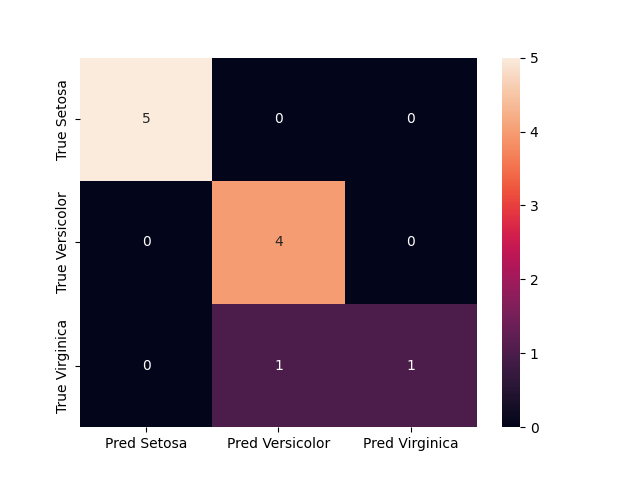
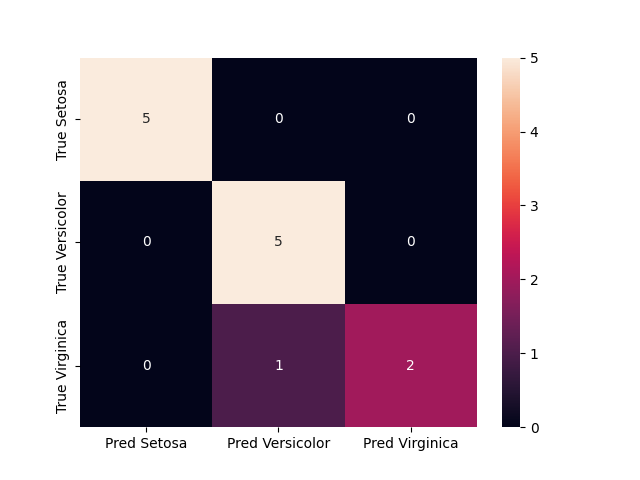
Automated graph published

Changed region(s): [[0.3125, 0.375, 0.75, 0.9062]]

diff --git a/assets/df_recent.md b/assets/df_recent.md
@@ -1,0 +1,7 @@
+| prediction   | label      | datetime             |
+|:-------------|:-----------|:---------------------|
+| Setosa       | Setosa     | 03/13/2024, 10:21:54 |
+| Versicolor   | Versicolor | 03/13/2024, 13:03:00 |
+| Versicolor   | Virginica  | 03/13/2024, 13:20:33 |
+| Virginica    | Virginica  | 03/13/2024, 13:36:55 |
+| Versicolor   | Versicolor | 03/13/2024, 14:26:11 |
